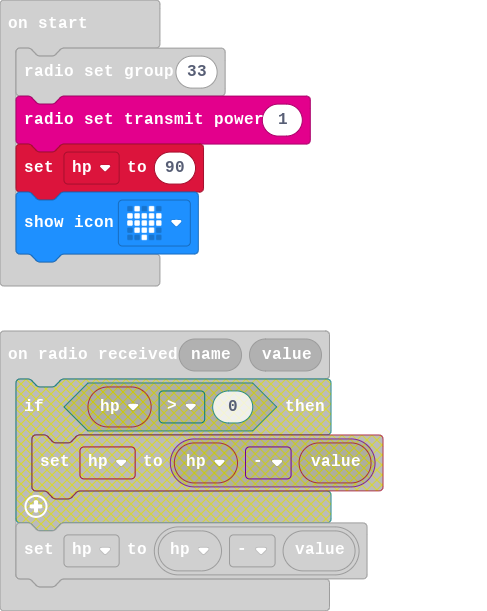
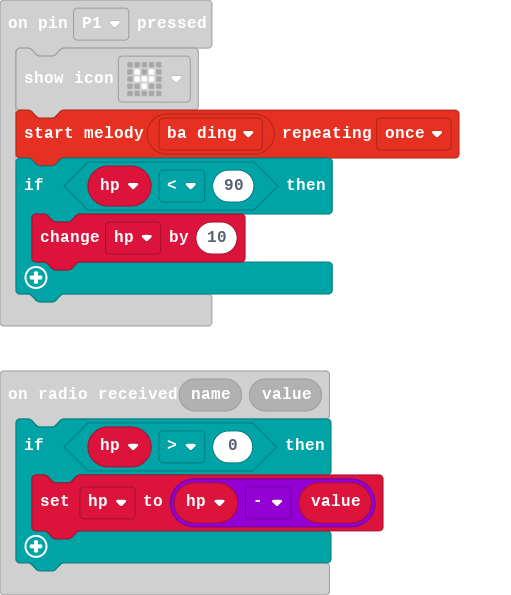
eind les 4

diff --git a/main.ts b/main.ts
@@ -1,12 +1,17 @@
 input.onPinPressed(TouchPin.P1, function () {
-    hp += 10
     basic.showIcon(IconNames.SmallHeart)
+    music.startMelody(music.builtInMelody(Melodies.BaDing), MelodyOptions.Once)
+    if (hp < 90) {
+        hp += 10
+    }
 })
 input.onGesture(Gesture.Shake, function () {
     radio.sendValue("aanval", 30)
 })
 radio.onReceivedValue(function (name, value) {
-    hp = hp - value
+    if (hp > 0) {
+        hp = hp - value
+    }
 })
 let hp = 0
 radio.setGroup(33)
